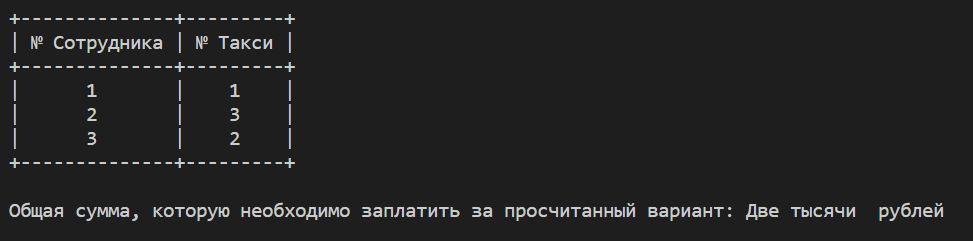
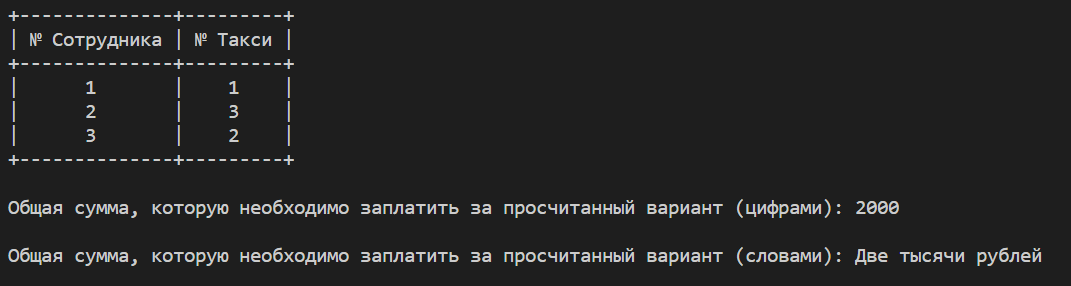
Исправлена логика работы класса второй лабораторной, изменение тестов в images, добавлен вывод суммы в цифрах

diff --git a/Lab_2.py b/Lab_2.py
@@ -6,32 +6,28 @@ class NumToStrWithRubs():
     def __str__(self):
         return self.num
 
-    def _get_num_before_twenty(self, digit):
-        return [ "", "один", "два", "три", "четыре", "пять", "шесть", "семь", "восемь", "девять", "десять",
-                "одиннадцать", "двенадцать", "тринадцать", "четырнадцать", "пятнадцать", "шестнадцать",
-                "семнадцать", "восемнадцать", "девятнадцать" ][digit]
+    numsBeforeTwenty = [ "", "один", "два", "три", "четыре", "пять", "шесть", "семь", "восемь", "девять", 
+                        "десять", "одиннадцать", "двенадцать", "тринадцать", "четырнадцать", "пятнадцать", 
+                        "шестнадцать", "семнадцать", "восемнадцать", "девятнадцать" ]
 
-    def _get_num_after_twenty(self, firstDigit):
-        return [ "двадцать", "тридцать", "сорок", "пятьдесят", "шестьдесят", "семьдесят",
-                "восемьдесят", "девяносто"][firstDigit]
+    dozens = ["двадцать", "тридцать", "сорок", "пятьдесят", "шестьдесят", "семьдесят", "восемьдесят", 
+            "девяносто"]
 
-    def _get_hundreds(self, firstDigit):
-        return [ "сто", "двести", "триста", "четыреста", "пятьсот", "шестьсот", "семьсот", "восемьсот",
-                "девятьсот"][firstDigit]
+    hundreds = [ "сто", "двести", "триста", "четыреста", "пятьсот", "шестьсот", "семьсот", "восемьсот",
+                "девятьсот"]
 
     def _parse_three_digit(self, num): 
         self._parse_two_digit(num)
         num //= 100
-        self.numStr.append(self._get_hundreds(num % 10))
+        self.numStr.append(self.hundreds[num % 10 - 1])
 
     def _parse_two_digit(self, num):
-        if (num % 100 >= 20):
-            self.numStr.append(self._get_num_before_twenty(num % 10))
-            num //= 10
-            self.numStr.append(self._get_num_after_twenty(num % 10))
-            num //= 10
+        if (num % 100 < 20):
+            self.numStr.append(self.numsBeforeTwenty[num % 100])
         else:
-            self.numStr.append(self._get_num_before_twenty(num % 100))
+            self.numStr.append(self.numsBeforeTwenty[num % 10])
+            num //= 10
+            self.numStr.append(self.dozens[num % 10 - 2])
 
     def _get_thousand_with_correct_end(self, lastTwoDigit):
         if lastTwoDigit > 20:
@@ -95,5 +91,6 @@ class NumToStrWithRubs():
         # Замена при необходимости падежа у окончания тысячи.
         if isChangeCase:
             self._change_case(self.numStr)
-
+        
+        self.numStr = list(filter(None, self.numStr))
         return ' '.join(self.numStr).capitalize()

diff --git a/ФТ-210007Бельский.py b/ФТ-210007Бельский.py
@@ -18,8 +18,11 @@ def print_table(taxis):
     os.system('cls')
     print(table)
 
-def print_sum(sum):
-    print(f'\nОбщая сумма, которую необходимо заплатить за просчитанный вариант: {NumToStrWithRubs(sum)}')
+def print_sum_nums(sum):
+    print(f'\nОбщая сумма, которую необходимо заплатить за просчитанный вариант (цифрами): {sum}')
+
+def print_sum_words(sum):
+    print(f'\nОбщая сумма, которую необходимо заплатить за просчитанный вариант (словами): {NumToStrWithRubs(sum)}')
     
 def input_num(msg):
     while True:
@@ -63,6 +66,7 @@ fill_data(distances, tariffs)
 
 sum, taxis = get_sum_and_nums_taxis(distances, tariffs)
 
-print_table(taxis)
-print_sum(sum)
+print_table(taxis) 
+print_sum_nums(sum)
+print_sum_words(sum)
 
